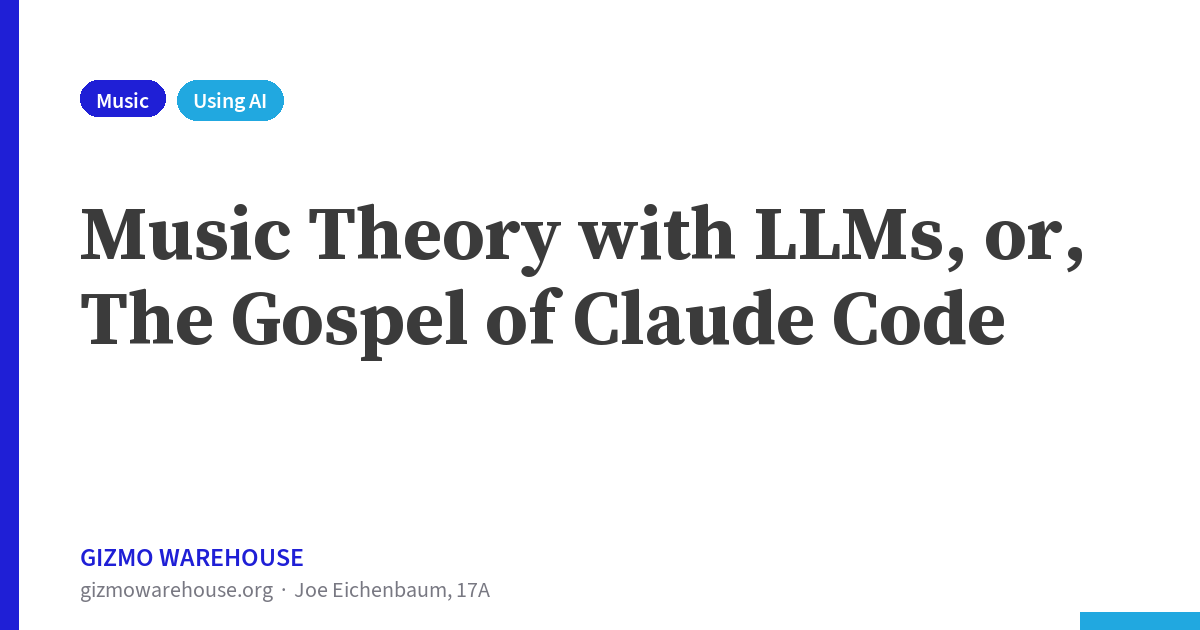
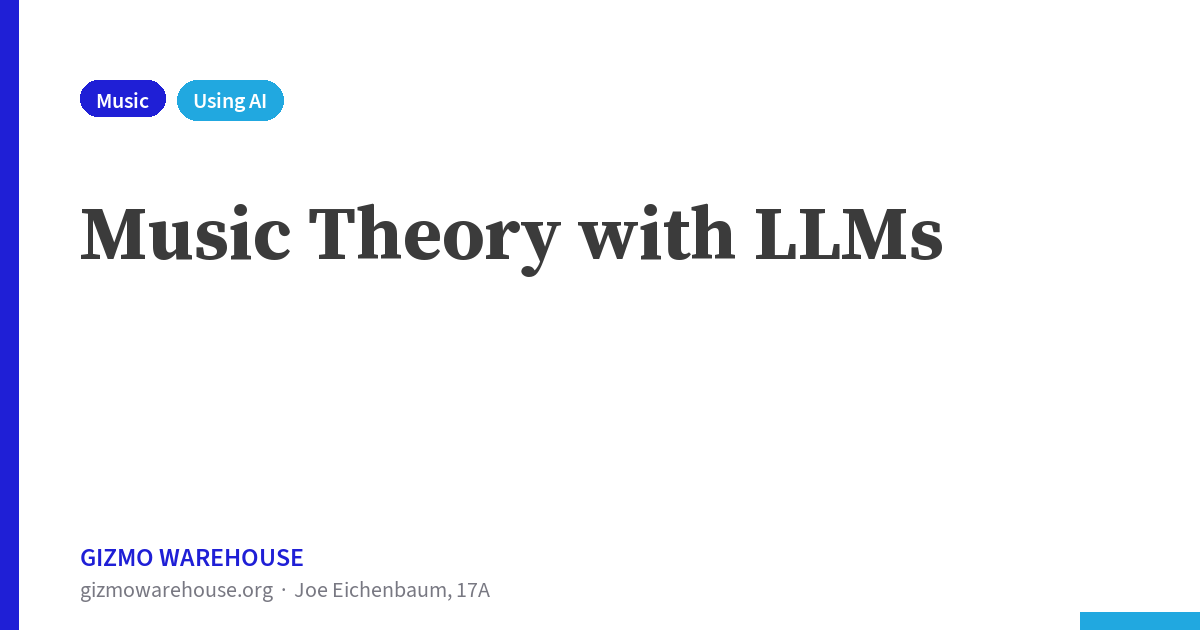
sync: 11 published gizmos
source: private main @ 8450f07
files: 273 tracked (+0 ~6 -0)

Changed region(s): [[0.0617, 0.4524, 0.8325, 0.573], [0.7708, 0.3317, 0.925, 0.4222]]

diff --git a/src/data/gizmos.ts b/src/data/gizmos.ts
@@ -31,7 +31,7 @@ export const ALL_CATEGORIES: Category[] = ["Public Safety", "Music", "Using AI",
 export const gizmos: Gizmo[] = [
   {
     slug: "gospel-of-claude-code",
-    title: "Music Theory with LLMs, or, The Gospel of Claude Code",
+    title: "Music Theory with LLMs",
     categories: ["Music", "Using AI"],
     date: "2026-08",
     summary: "Using Claude Code to write gospel reharmonizations for the fake book, and why next-chord prediction is a natural LLM task.",

diff --git a/tools/generate-og-cards.py b/tools/generate-og-cards.py
@@ -45,7 +45,7 @@ W, H = 1200, 630
 # build (sankey visual) from tools/build-medicaid-og-card.py, and a run of
 # this generic script must never overwrite it.
 GIZMOS = [
-    ("gospel-of-claude-code", "Music Theory with LLMs, or, The Gospel of Claude Code",
+    ("gospel-of-claude-code", "Music Theory with LLMs",
      ["Music", "Using AI"]),
     ("data-center-restriction-cost", "Pricing the Fear of Data Centers",
      ["State Government", "City Government"]),

diff --git a/README.md b/README.md
@@ -11,7 +11,7 @@ snapshot commits, so file history here is intentionally shallow.
 
 ## The gizmos
 
-- **[Music Theory with LLMs, or, The Gospel of Claude Code](https://gizmowarehouse.org/gizmo/gospel-of-claude-code)** (2026-08) — Using Claude Code to write gospel reharmonizations for the fake book, and why next-chord prediction is a natural LLM task.
+- **[Music Theory with LLMs](https://gizmowarehouse.org/gizmo/gospel-of-claude-code)** (2026-08) — Using Claude Code to write gospel reharmonizations for the fake book, and why next-chord prediction is a natural LLM task.
 - **[Pricing the Fear of Data Centers](https://gizmowarehouse.org/gizmo/data-center-restriction-cost)** (2026-08) — When a town says no to a data center, the record goes quiet: in the fights we traced to an ending, nine of eleven blocked projects left no documented second act, and the most famous rejection was built anyway, on the same land, with the city cut out of the deal. A map of every documented restriction in the country, a calculator for what one campus pays a town, and the conditions that work better than a ban.
 - **[The New Math on NYC's Public Grocery Stores](https://gizmowarehouse.org/gizmo/nyc-public-grocery-new-math)** (2026-08) — Mayor Mamdani's stores will sell a core basket 30% below market, and nobody has priced that promise. This update does: about $167M over ten years, reaching roughly 12,000 households when the same money could reach six to fifteen times as many.
 - **[High Floor, Low Ceiling: How Public-Sector Wage Compression Erodes Public Service](https://gizmowarehouse.org/gizmo/public-private-compensation-comparison)** (2026-06) — Public pay is compressed: a high floor and a low ceiling. Government holds its own at the bottom of the labor market but falls far behind at the top, exactly where elite private pay has soared — software, law, finance, engineering. A data piece tracing the public-sector pay gap by skill, by domain, by level of government, and over time, built from ACS PUMS microdata, BLS/BEA/Census series, and city and state payroll files.

diff --git a/gizmos/gospel-of-claude-code/README.md b/gizmos/gospel-of-claude-code/README.md
@@ -1,4 +1,4 @@
-# Music Theory with LLMs, or, The Gospel of Claude Code — source
+# Music Theory with LLMs — source
 
 Source materials for [the gizmo](../../src/content/gospel-of-claude-code.ts).
 
